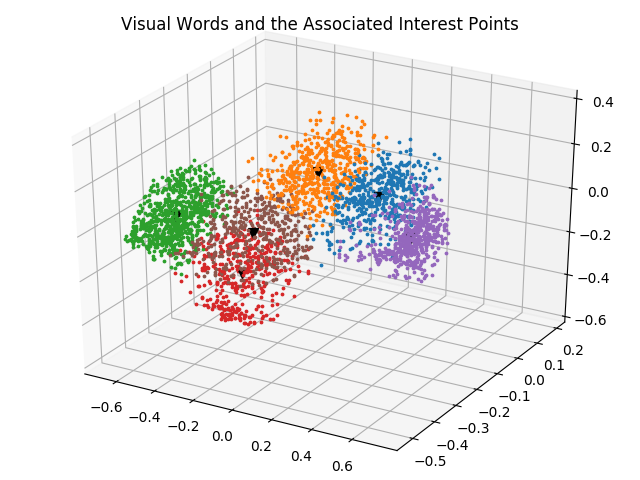
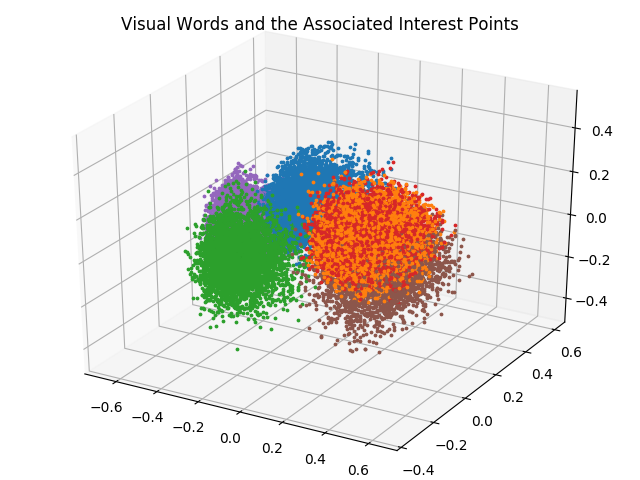
jf

diff --git a/hw2/problem3/main.py b/hw2/problem3/main.py
@@ -13,22 +13,19 @@ color=['C0', 'C1', 'C2', 'C3', 'C4', 'C5', 'C6', 'C7', 'C8', 'C9']
 #                    problem 3.a                              #
 ###############################################################
 '''
-'''
 pic='Suburb/image_0029'
-dm.read_image('image','train-10/{}.jpg'.format(pic),mode='rgb')
+dm.read_image('image','train-100/{}.jpg'.format(pic),mode='rgb')
 dm.surf_detect(dm.data['image'])
 dm.surf_plot(dm.data['image'],'Interest Point on {}'.format(pic),'pic/3_a_surf.png')
-'''
 '''
 ###############################################################
 #                    problem 3.b                              #
 ###############################################################
 '''
-'''
 feature=[]
-for d in os.listdir('train-10'):
-    for f in os.listdir('train-10/{}'.format(d)):
-        dm.read_image('image','train-10/{}/{}'.format(d,f),mode='rgb')
+for d in os.listdir('train-100'):
+    for f in os.listdir('train-100/{}'.format(d)):
+        dm.read_image('image','train-100/{}/{}'.format(d,f),mode='rgb')
         feature.append(dm.surf_detect(dm.data['image']))
 feature=np.concatenate(feature,0)
 
@@ -39,9 +36,9 @@ x=dm.pca_transform(feature)
 #print(x,y)
 #print(x.shape,y.shape)
 x_center=dm.pca_transform(dm.kmeans.cluster_centers_[:6])
-print(x_center)
+#print(x_center)
 y_center=np.arange(6)
-print(y_center)
+#print(y_center)
 #print(x_center,y_center)
 #rint(x_center.shape,y_center.shape)
 
@@ -56,13 +53,11 @@ for i in range(len(x_center)):
 ax.set_title('Visual Words and the Associated Interest Points')
 plt.savefig('pic/3_b_pca_cluster.png')
 '''
-'''
 ###############################################################
 #                    problem 3.c                              #
 ###############################################################
 '''
-'''
-train_dir='train-10'
+train_dir='train-100'
 test_dir='test-100'
 train_dir_list=os.listdir(train_dir)
 test_dir_list=os.listdir(test_dir)
@@ -82,13 +77,12 @@ for j in range(len(train_dir_list)):
         emb.append((train_dir_list[j],m[0],m[1],dm.embedding(data[j*10],mode=m)))
 dm.plot_bar(emb,'pic/3_c_histogram.png')
 '''
-'''
 ###############################################################
 #                    problem 3.d                              #
 ###############################################################
 '''
 '''
-train_dir='train-10'
+train_dir='train-100'
 test_dir='test-100'
 train_dir_list=os.listdir(train_dir)
 test_dir_list=os.listdir(test_dir)
@@ -102,7 +96,7 @@ for i in range(len(train_dir_list)):
 train_x=np.array(train_x)
 train_y=np.array(train_y)
 feature=np.concatenate(train_x,0)
-dm.kmeans_construct(feature)
+dm.kmeans_construct(feature,n=30)
 
 test_x=[]
 test_y=[]
